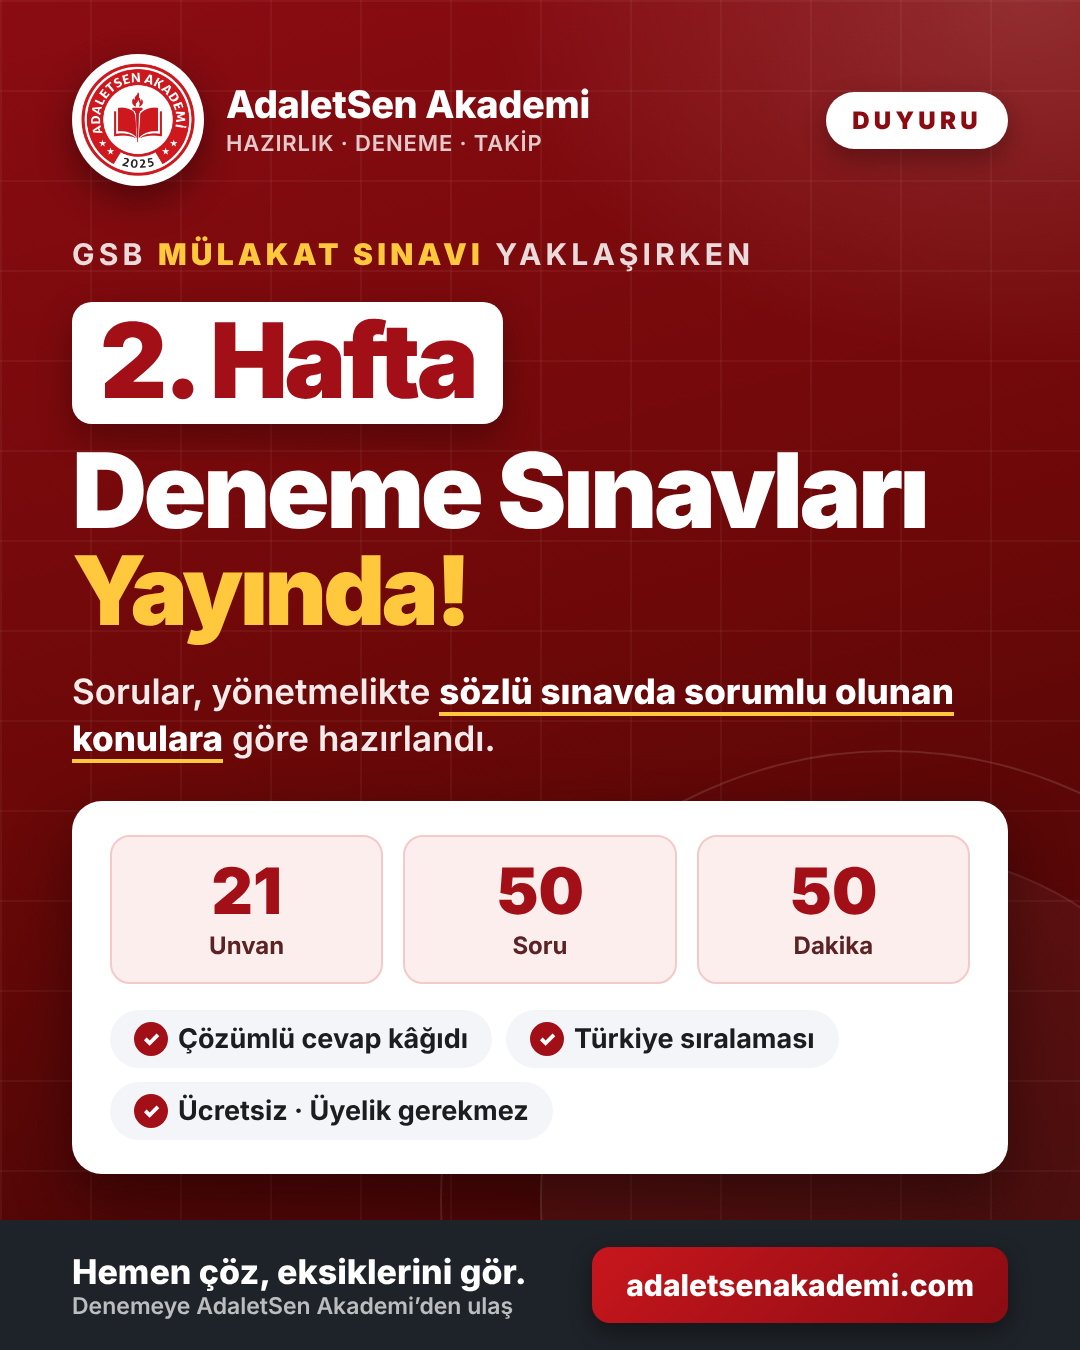
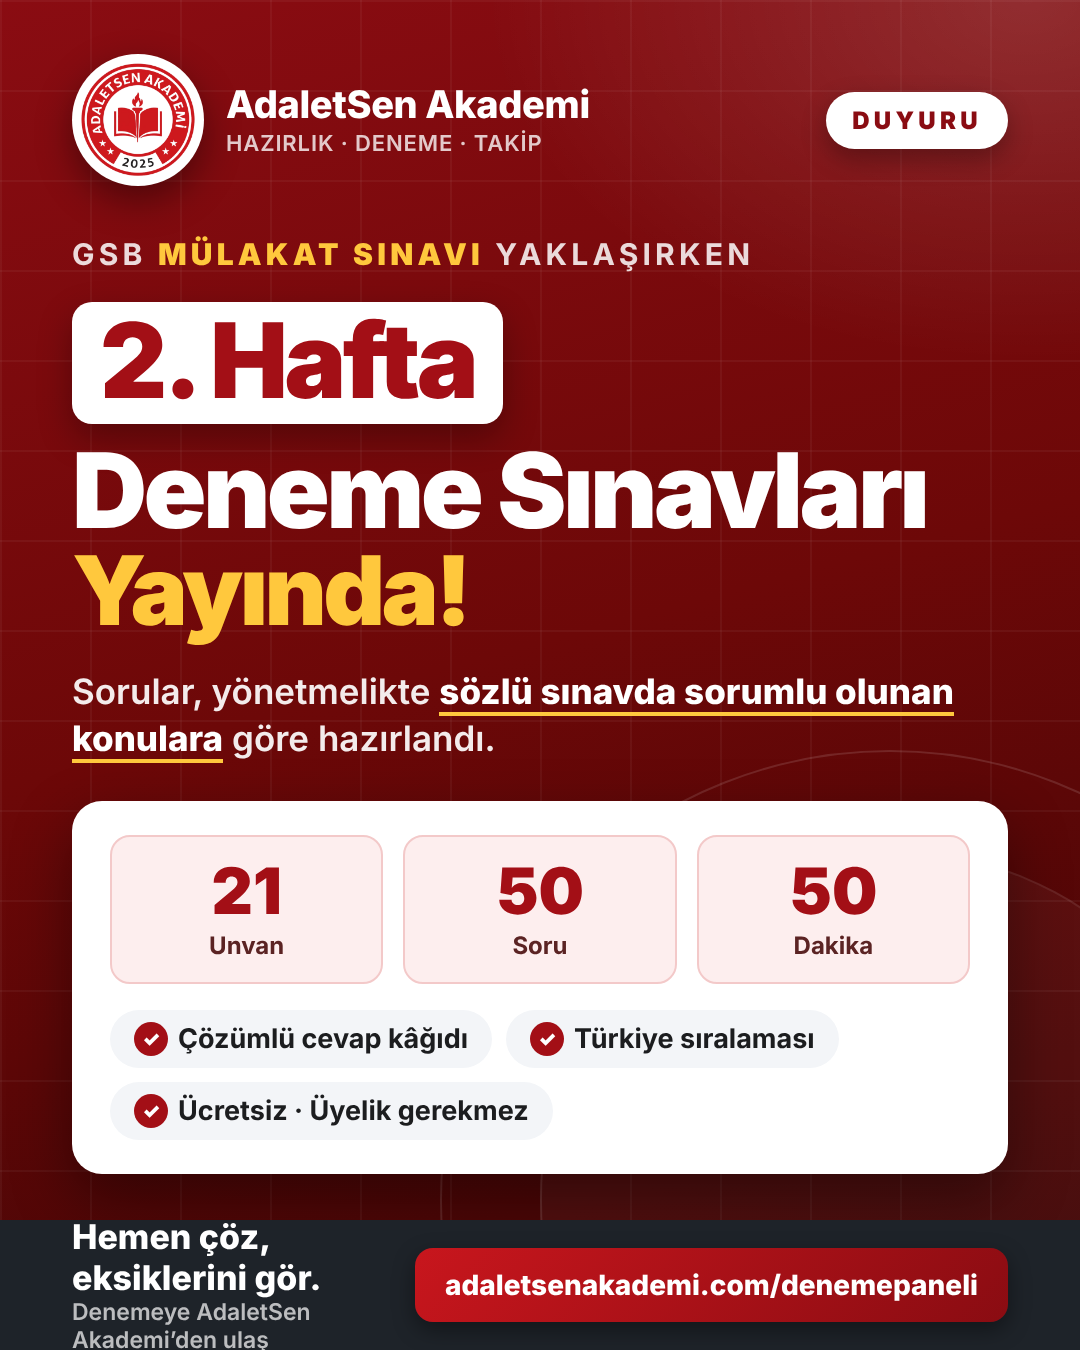
Duyuru görseline erişim linki ekle, WhatsApp metni hazırla
Claude-Session: https://claude.ai/code/session_01Ed9z7G2X5gxMvNAWf3p6ag

Changed region(s): [[0.0611, 0.9022, 0.9167, 1.0]]

diff --git a/duyuru/gsb_2_hafta_duyuru.html b/duyuru/gsb_2_hafta_duyuru.html
@@ -32,7 +32,7 @@ h1 .live{display:block;color:#ffc83d;font-size:96px}
 .foot{position:absolute;z-index:3;left:0;right:0;bottom:0;height:130px;background:#1e2329;display:flex;align-items:center;justify-content:space-between;padding:0 72px}
 .foot .l b{display:block;font-size:34px;font-weight:800}
 .foot .l span{font-size:23px;color:rgba(255,255,255,.7);font-weight:600}
-.cta{background:linear-gradient(135deg,#c8161d,#8a0c12);border-radius:18px;padding:20px 34px;font-size:30px;font-weight:800;box-shadow:0 8px 22px rgba(0,0,0,.4)}
+.cta{background:linear-gradient(135deg,#c8161d,#8a0c12);border-radius:18px;padding:20px 30px;font-size:28px;font-weight:800;box-shadow:0 8px 22px rgba(0,0,0,.4)}
 </style></head><body>
 <div class="ring"></div><div class="ring r2"></div>
 <div class="wrap">
@@ -57,5 +57,5 @@ h1 .live{display:block;color:#ffc83d;font-size:96px}
   </div>
  </div>
 </div>
-<div class="foot"><div class="l"><b>Hemen çöz, eksiklerini gör.</b><span>Denemeye AdaletSen Akademi’den ulaş</span></div><div class="cta">adaletsenakademi.com</div></div>
+<div class="foot"><div class="l"><b>Hemen çöz, eksiklerini gör.</b><span>Denemeye AdaletSen Akademi’den ulaş</span></div><div class="cta">adaletsenakademi.com/denemepaneli</div></div>
 </body></html>
